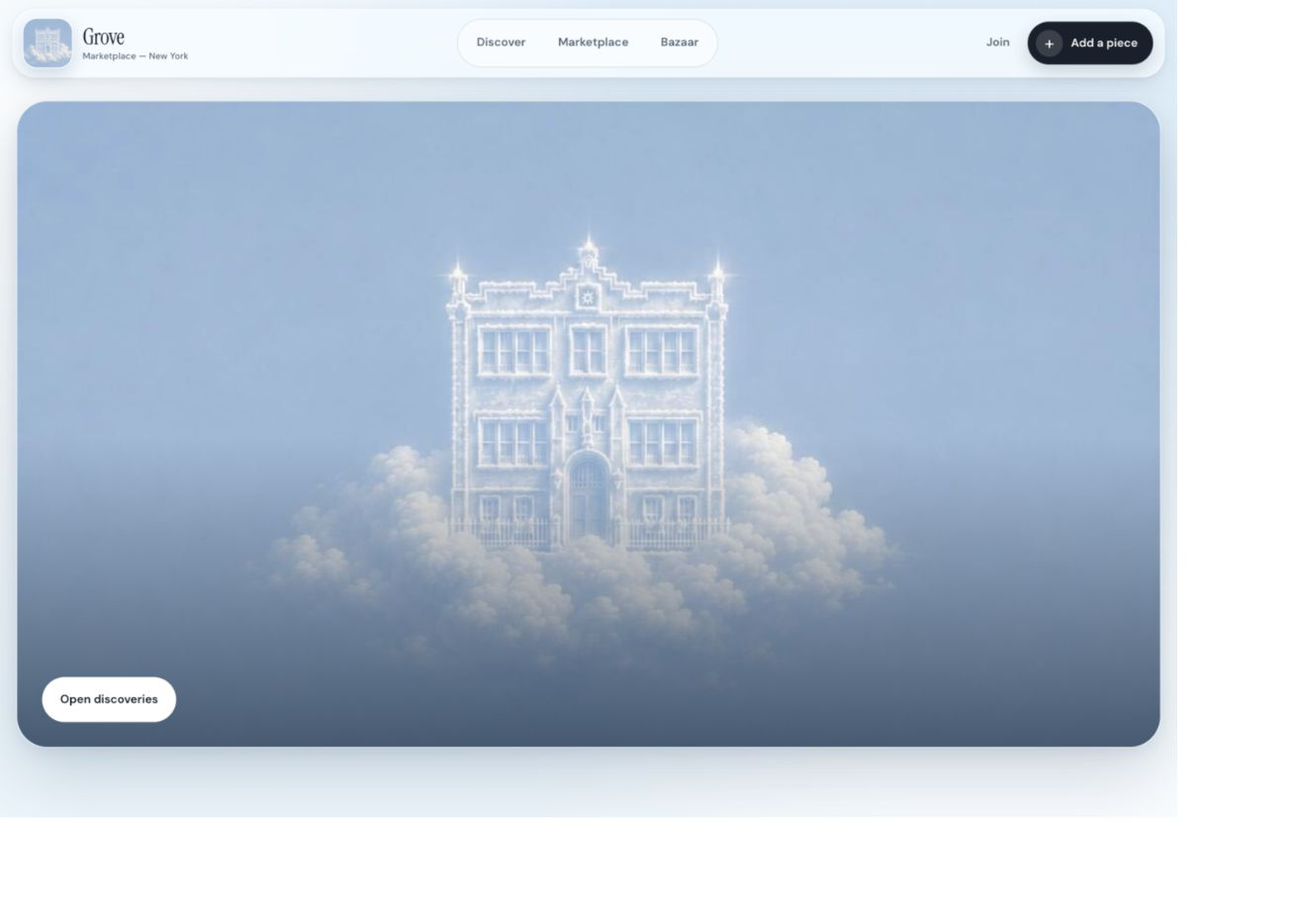
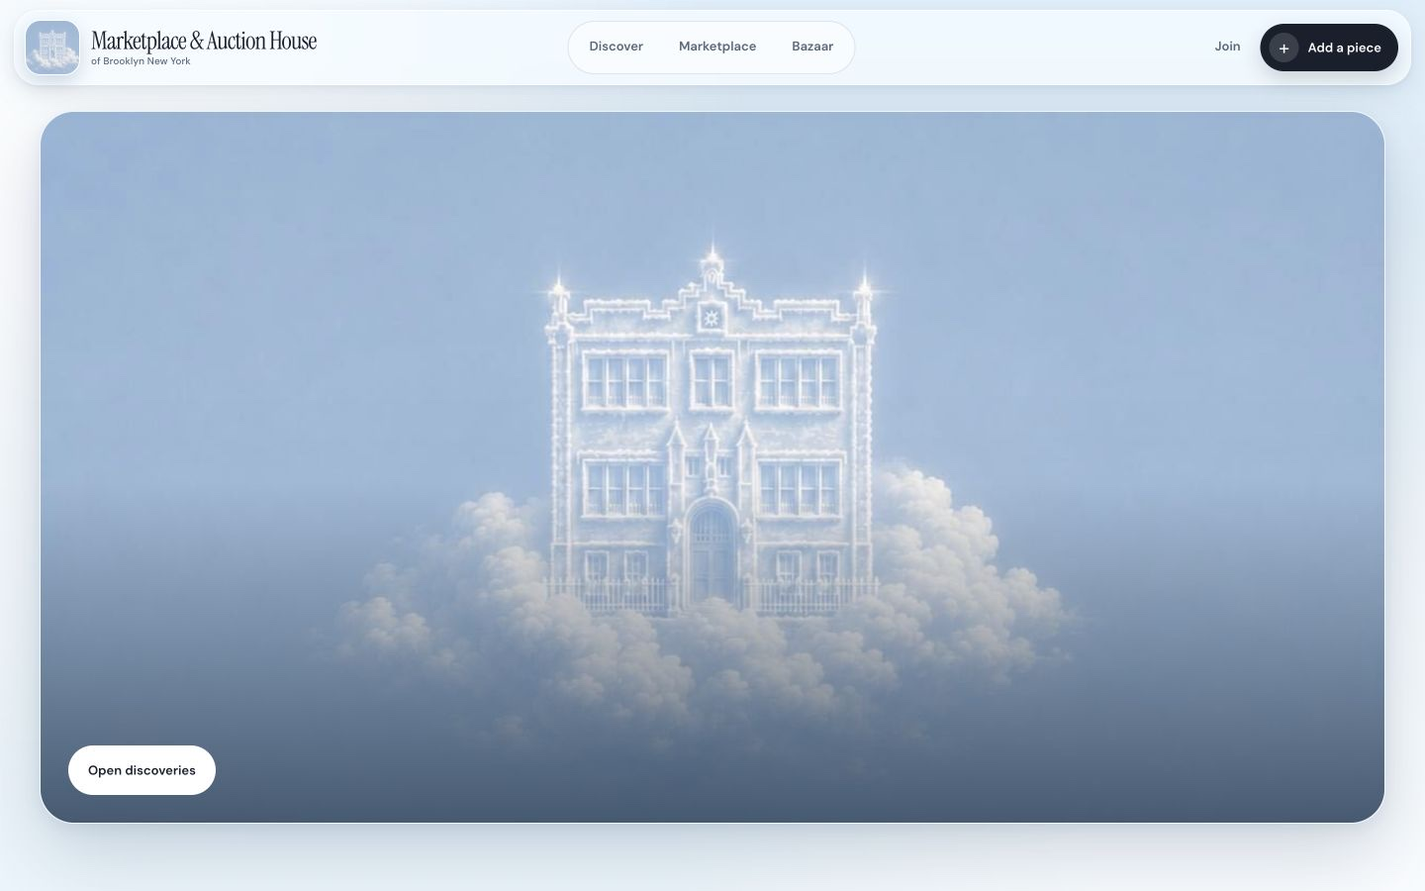
Rename marketplace for Brooklyn auction house (#7)

diff --git a/app.js b/app.js
@@ -11,6 +11,7 @@ import {
 } from "./catalog.js";
 import { track, trackClientErrors } from "./analytics.js";
 
+const BRAND_NAME = "Marketplace & Auction House of Brooklyn New York";
 const app = document.querySelector("#app");
 const collectDialog = document.querySelector("#collect-dialog");
 const collectContent = document.querySelector("#collect-content");
@@ -118,7 +119,7 @@ const home = () => {
   const featuredWorks = [getWork("blue-hour-nassau"), getWork("cloud-protocol-i"), getWork("stairwell-for-nobody")];
   return `
     <div class="page home-page">
-      <section class="hero" aria-label="Grove Marketplace — New York">
+      <section class="hero" aria-label="${BRAND_NAME}">
         <img class="hero__seed" src="public/assets/school-seed.jpg" alt="A glowing ornate school floating in pale-blue clouds">
         <div class="hero__copy">
           <a class="button button--light" href="#discover">Open discoveries</a>
@@ -158,7 +159,7 @@ const discoverPage = () => {
     <div class="page">
       <header class="page-title">
         <h1>Discoveries</h1>
-        <a class="button button--dark" href="#join">Join Grove</a>
+        <a class="button button--dark" href="#join">Join as curator</a>
       </header>
 
       <form class="link-capture" id="link-capture">
@@ -237,7 +238,7 @@ const workPage = (work) => {
         </aside>
       </div>
       <section class="page section related" aria-labelledby="related-title">
-        <div class="section-head"><h2 id="related-title">More from Grove</h2></div>
+        <div class="section-head"><h2 id="related-title">More works</h2></div>
         <div class="work-grid">${related.map(workTile).join("")}</div>
       </section>
     </div>
@@ -248,7 +249,7 @@ const curatorsPage = () => `
   <div class="page">
     <header class="page-title">
       <h1>Curators</h1>
-      <a class="button button--dark" href="#join">Join Grove</a>
+      <a class="button button--dark" href="#join">Join as curator</a>
     </header>
     <section class="curator-grid">
       ${curators.map((curator) => {
@@ -308,7 +309,7 @@ const joinPage = () => `
     <div class="join-image"><img src="public/assets/school-seed.jpg" alt="A glowing school floating in clouds"></div>
     <div class="join-panel">
       <h1>Join.</h1>
-      <div class="social-join" aria-label="Join Grove">
+      <div class="social-join" aria-label="Join as curator">
         <button type="button" data-auth-provider="instagram">
           <span class="social-mark" aria-hidden="true">◎</span>
           <span><strong>Instagram</strong><small>Name · photo · handle</small></span>
@@ -320,7 +321,7 @@ const joinPage = () => `
           <i data-provider-state="x">${providerState("x")}</i>
         </button>
       </div>
-      <p class="join-note">Provider consent only. Grove never asks for your password.</p>
+      <p class="join-note">Provider consent only. We never ask for your password.</p>
       <div class="join-result" id="join-result" aria-live="polite"></div>
     </div>
   </div>
@@ -480,17 +481,17 @@ const render = () => {
   const [root, detail] = route();
   let html;
   let title;
-  if (root === "home") { html = home(); title = "Grove Marketplace — New York"; }
-  else if (root === "discover") { html = discoverPage(); title = "Discoveries · Grove Marketplace — New York"; }
-  else if (root === "market") { html = marketPage(detail || "all"); title = "Works · Grove Marketplace — New York"; }
-  else if (root === "work" && getWork(detail)) { const work = getWork(detail); html = workPage(work); title = `${work.title} · Grove Marketplace — New York`; }
-  else if (root === "exhibition" && getExhibition(detail)) { const exhibition = getExhibition(detail); html = exhibitionPage(exhibition); title = `${exhibition.title} · Grove Marketplace — New York`; }
-  else if (root === "curators") { html = curatorsPage(); title = "Curators · Grove Marketplace — New York"; }
-  else if (root === "curator" && getCurator(detail)) { const curator = getCurator(detail); html = curatorPage(curator); title = `${curator.name} · Grove Marketplace — New York`; }
-  else if (root === "sponsor") { html = sponsorPage(); title = "Add a piece · Grove Marketplace — New York"; }
-  else if (root === "join") { html = joinPage(); title = "Join · Grove Marketplace — New York"; }
-  else if (root === "bazaar") { html = bazaarPage(); title = "Bazaar · Grove Marketplace — New York"; }
-  else { html = notFound(); title = "Not found · Grove Marketplace — New York"; }
+  if (root === "home") { html = home(); title = BRAND_NAME; }
+  else if (root === "discover") { html = discoverPage(); title = `Discoveries · ${BRAND_NAME}`; }
+  else if (root === "market") { html = marketPage(detail || "all"); title = `Works · ${BRAND_NAME}`; }
+  else if (root === "work" && getWork(detail)) { const work = getWork(detail); html = workPage(work); title = `${work.title} · ${BRAND_NAME}`; }
+  else if (root === "exhibition" && getExhibition(detail)) { const exhibition = getExhibition(detail); html = exhibitionPage(exhibition); title = `${exhibition.title} · ${BRAND_NAME}`; }
+  else if (root === "curators") { html = curatorsPage(); title = `Curators · ${BRAND_NAME}`; }
+  else if (root === "curator" && getCurator(detail)) { const curator = getCurator(detail); html = curatorPage(curator); title = `${curator.name} · ${BRAND_NAME}`; }
+  else if (root === "sponsor") { html = sponsorPage(); title = `Add a piece · ${BRAND_NAME}`; }
+  else if (root === "join") { html = joinPage(); title = `Join · ${BRAND_NAME}`; }
+  else if (root === "bazaar") { html = bazaarPage(); title = `Bazaar · ${BRAND_NAME}`; }
+  else { html = notFound(); title = `Not found · ${BRAND_NAME}`; }
 
   app.innerHTML = html;
   document.title = title;
@@ -602,9 +603,9 @@ document.addEventListener("submit", (event) => {
 });
 
 const downloadCalendar = () => {
-  const file = ["BEGIN:VCALENDAR", "VERSION:2.0", "BEGIN:VEVENT", "DTSTART:20260912T160000Z", "DTEND:20260912T230000Z", "SUMMARY:Grove Marketplace — New York · Assembly of Light", "LOCATION:29 Nassau Avenue\\, Brooklyn\\, New York", "END:VEVENT", "END:VCALENDAR"].join("\r\n");
+  const file = ["BEGIN:VCALENDAR", "VERSION:2.0", "BEGIN:VEVENT", "DTSTART:20260912T160000Z", "DTEND:20260912T230000Z", `SUMMARY:${BRAND_NAME} · Assembly of Light`, "LOCATION:29 Nassau Avenue\\, Brooklyn\\, New York", "END:VEVENT", "END:VCALENDAR"].join("\r\n");
   const url = URL.createObjectURL(new Blob([file], { type: "text/calendar" }));
-  const link = Object.assign(document.createElement("a"), { href: url, download: "grove-bazaar.ics" });
+  const link = Object.assign(document.createElement("a"), { href: url, download: "brooklyn-auction-house-bazaar.ics" });
   link.click();
   URL.revokeObjectURL(url);
   showToast("Calendar ready");

diff --git a/index.html b/index.html
@@ -4,19 +4,19 @@
   <meta charset="utf-8">
   <meta name="viewport" content="width=device-width, initial-scale=1, viewport-fit=cover">
   <meta name="theme-color" content="#dceefa">
-  <meta name="description" content="Grove Marketplace — New York. Curator-led physical and digital art.">
+  <meta name="description" content="Marketplace &amp; Auction House of Brooklyn New York. Curator-led physical and digital art.">
   <meta name="robots" content="index,follow,max-image-preview:large">
-  <meta property="og:title" content="Grove Marketplace — New York">
-  <meta property="og:description" content="Curator-led physical and digital art in New York.">
+  <meta property="og:title" content="Marketplace &amp; Auction House of Brooklyn New York">
+  <meta property="og:description" content="Curator-led physical and digital art in Brooklyn.">
   <meta property="og:type" content="website">
   <meta property="og:url" content="https://the-school-omega.vercel.app/">
   <meta property="og:image" content="https://the-school-omega.vercel.app/public/assets/school-seed.jpg">
   <meta property="og:image:alt" content="A glowing ornate school floating in pale-blue clouds">
   <meta name="twitter:card" content="summary_large_image">
-  <meta name="twitter:title" content="Grove Marketplace — New York">
-  <meta name="twitter:description" content="Curator-led physical and digital art in New York.">
+  <meta name="twitter:title" content="Marketplace &amp; Auction House of Brooklyn New York">
+  <meta name="twitter:description" content="Curator-led physical and digital art in Brooklyn.">
   <meta name="twitter:image" content="https://the-school-omega.vercel.app/public/assets/school-seed.jpg">
-  <title>Grove Marketplace — New York</title>
+  <title>Marketplace &amp; Auction House of Brooklyn New York</title>
   <link rel="canonical" href="https://the-school-omega.vercel.app/">
   <link rel="icon" href="public/assets/school-mark.jpg" type="image/jpeg">
   <link rel="apple-touch-icon" href="public/assets/school-mark.jpg">
@@ -30,9 +30,9 @@
   <a class="skip-link" href="#app">Skip to content</a>
 
   <header class="topbar">
-    <a class="brand" href="#home" aria-label="Grove Marketplace — New York, home">
+    <a class="brand" href="#home" aria-label="Marketplace &amp; Auction House of Brooklyn New York, home">
       <img src="public/assets/school-mark.jpg" alt="" width="56" height="56">
-      <span><strong>Grove</strong><small>Marketplace — New York</small></span>
+      <span><strong>Marketplace &amp; Auction House</strong><small>of Brooklyn New York</small></span>
     </a>
 
     <nav class="main-nav" aria-label="Primary navigation">
@@ -48,13 +48,13 @@
   </header>
 
   <main id="app" tabindex="-1">
-    <noscript><p class="no-script">JavaScript is required to browse Grove Marketplace.</p></noscript>
+    <noscript><p class="no-script">JavaScript is required to browse the marketplace.</p></noscript>
   </main>
 
   <footer class="footer">
-    <a class="brand brand--footer" href="#home" aria-label="Grove Marketplace — New York, home">
+    <a class="brand brand--footer" href="#home" aria-label="Marketplace &amp; Auction House of Brooklyn New York, home">
       <img src="public/assets/school-mark.jpg" alt="" width="48" height="48">
-      <span><strong>Grove</strong><small>Marketplace — New York</small></span>
+      <span><strong>Marketplace &amp; Auction House</strong><small>of Brooklyn New York</small></span>
     </a>
     <nav aria-label="Footer navigation">
       <a href="#discover">Discover</a>
@@ -62,7 +62,7 @@
       <a href="#curators">Curators</a>
       <a href="#sponsor">Add a piece</a>
     </nav>
-    <span>29 Nassau · New York</span>
+    <span>29 Nassau · Brooklyn</span>
   </footer>
 
   <dialog class="collect-dialog" id="collect-dialog" aria-labelledby="collect-title">

diff --git a/api/health.js b/api/health.js
@@ -6,12 +6,12 @@ export const GET = async (request) => {
   try {
     const { supabase, headers } = createSupabaseRequestClient(request);
     const { error } = await supabase.from("works").select("id").limit(1);
-    if (error) return problem(503, "database_unreachable", "The Grove database is unavailable.", headers);
+    if (error) return problem(503, "database_unreachable", "The marketplace database is unavailable.", headers);
 
     const configuration = publicConfiguration();
     return json({
       status: "ok",
-      service: "grove-marketplace-new-york",
+      service: "marketplace-auction-house-brooklyn-new-york",
       runtime: {
         environment: process.env.VERCEL_ENV || "local",
         region: process.env.VERCEL_REGION || "local"
@@ -23,8 +23,8 @@ export const GET = async (request) => {
     }, { headers: { ...Object.fromEntries(headers), "Cache-Control": "no-store" } });
   } catch (error) {
     if (error instanceof ConfigurationError) {
-      return problem(503, "backend_not_configured", "The Grove backend is not configured.");
+      return problem(503, "backend_not_configured", "The marketplace backend is not configured.");
     }
-    return problem(503, "service_unavailable", "Grove is unavailable.");
+    return problem(503, "service_unavailable", "The marketplace is unavailable.");
   }
 };

diff --git a/lib/server/supabase.js b/lib/server/supabase.js
@@ -62,7 +62,7 @@ export const getAuthenticatedCurator = async (client) => {
 export const createSupabaseAdminClient = () => {
   const config = getRuntimeConfig();
   if (!config.metricsConfigured) {
-    throw new ConfigurationError("Grove metrics are not configured.", ["SUPABASE_SECRET_KEY", "GROVE_METRICS_ENABLED=true"]);
+    throw new ConfigurationError("Marketplace metrics are not configured.", ["SUPABASE_SECRET_KEY", "GROVE_METRICS_ENABLED=true"]);
   }
 
   return createClient(config.supabaseUrl, config.supabaseSecretKey, {

diff --git a/analytics.js b/analytics.js
@@ -26,10 +26,10 @@ let configurationRequest;
 
 const sessionId = () => {
   try {
-    const current = sessionStorage.getItem("grove_session_id");
+    const current = sessionStorage.getItem("brooklyn_marketplace_session_id");
     if (current) return current;
     const created = crypto.randomUUID();
-    sessionStorage.setItem("grove_session_id", created);
+    sessionStorage.setItem("brooklyn_marketplace_session_id", created);
     return created;
   } catch {
     return crypto.randomUUID();

diff --git a/styles.css b/styles.css
@@ -162,10 +162,12 @@ h2 {
 }
 
 .brand strong {
+  max-width: 300px;
   font-family: var(--serif);
   font-size: 25px;
   font-weight: 400;
   letter-spacing: -0.03em;
+  line-height: 0.92;
 }
 
 .brand small {
@@ -1680,11 +1682,13 @@ h2 {
   }
 
   .brand strong {
-    font-size: 21px;
+    max-width: 180px;
+    font-size: 16px;
+    line-height: 0.9;
   }
 
   .brand small {
-    font-size: 8px;
+    font-size: 7px;
   }
 
   .join-link {

diff --git a/lib/server/config.js b/lib/server/config.js
@@ -61,7 +61,7 @@ export const requireBackendConfig = () => {
   const missing = [];
   if (!config.supabaseUrl) missing.push("SUPABASE_URL");
   if (!config.supabaseKey) missing.push("SUPABASE_PUBLISHABLE_KEY");
-  throw new ConfigurationError("The Grove backend is not configured.", missing);
+  throw new ConfigurationError("The marketplace backend is not configured.", missing);
 };
 
 export const getProvider = (requestedProvider) => {

diff --git a/DESIGN.md b/DESIGN.md
@@ -1,12 +1,12 @@
-# Grove Marketplace — New York · design notes
+# Marketplace & Auction House of Brooklyn New York · design notes
 
 ## Identity
 
-The user-supplied floating school is Grove’s primary mark, not mood-board material. The full square image anchors the home and join pages; a centered crop serves as the compact logo. The visible identity is **Grove Marketplace — New York**.
+The user-supplied floating school is the primary mark, not mood-board material. The full square image anchors the home and join pages; a centered crop serves as the compact logo. The visible identity is **Marketplace & Auction House of Brooklyn New York**.
 
 ## Visual thesis
 
-Grove is a celestial curator desk:
+The experience is a celestial curator desk:
 
 - pale-blue cloud light and icy white highlights;
 - art at the largest practical scale;
@@ -15,7 +15,7 @@ Grove is a celestial curator desk:
 - serif display type with quiet sans-serif utility text;
 - very little copy.
 
-The former Foundation marketplace influences the confident artwork scale, rounded pop-out objects, editorial calm, and clear acquisition focus. Grove combines that sensibility with its own pixelated school and luminous-blue atmosphere rather than reproducing Foundation’s branding or layouts.
+The former Foundation marketplace influences the confident artwork scale, rounded pop-out objects, editorial calm, and clear acquisition focus. This experience combines that sensibility with its own pixelated school and luminous-blue atmosphere rather than reproducing Foundation’s branding or layouts.
 
 ## Product hierarchy
 
@@ -23,7 +23,7 @@ The former Foundation marketplace influences the confident artwork scale, rounde
 2. **Add a piece** — a discovery or public link becomes an unlisted draft.
 3. **Join** — a curator authorizes Instagram or X and imports only granted name/photo/handle data.
 4. **Marketplace** — collectors explore physical, digital / NFT, and paired work.
-5. **Bazaar** — Grove coordinates a monthly physical gathering.
+5. **Bazaar** — the marketplace coordinates a monthly physical gathering.
 
 The interface exposes only the state needed for the current decision. Detail, edition, network, and fulfillment metadata stay collapsed or on the work page.
 
@@ -42,7 +42,7 @@ Controls state exactly what happens. Missing credentials and contracts are repre
 
 ## Responsive behavior
 
-Desktop uses three-column art grids and paired detail surfaces. Phone layouts collapse to one column, retain the Grove name, keep curator actions prominent, and move the three primary destinations into a thumb-reachable floating navigation. Visible first-viewport targets are at least 44px, horizontal overflow is suppressed and tested, and motion respects `prefers-reduced-motion`.
+Desktop uses three-column art grids and paired detail surfaces. Phone layouts collapse to one column, retain the full identity in a compact two-line lockup, keep curator actions prominent, and move the three primary destinations into a thumb-reachable floating navigation. Visible first-viewport targets are at least 44px, horizontal overflow is suppressed and tested, and motion respects `prefers-reduced-motion`.
 
 ## Assets
 

diff --git a/README.md b/README.md
@@ -1,4 +1,4 @@
-# Grove Marketplace — New York
+# Marketplace & Auction House of Brooklyn New York
 
 [![CI](https://github.com/Greenpoint-Compute-Cooperative/school-website/actions/workflows/ci.yml/badge.svg)](https://github.com/Greenpoint-Compute-Cooperative/school-website/actions/workflows/ci.yml)
 [![Production health](https://github.com/Greenpoint-Compute-Cooperative/school-website/actions/workflows/uptime.yml/badge.svg)](https://github.com/Greenpoint-Compute-Cooperative/school-website/actions/workflows/uptime.yml)
@@ -8,11 +8,11 @@ A curator-led marketplace for physical art in the School and born-digital work. 
 
 **Live:** [the-school-omega.vercel.app](https://the-school-omega.vercel.app)
 
-![Grove Marketplace — New York home page](docs/screenshot-desktop.jpg)
+![Marketplace & Auction House of Brooklyn New York home page](docs/screenshot-desktop.jpg)
 
 ![Born-digital work and acquisition preview](docs/screenshot-work.jpg)
 
-<img src="docs/screenshot-phone.jpg" alt="Grove Marketplace — New York on a phone" width="300">
+<img src="docs/screenshot-phone.jpg" alt="Marketplace & Auction House of Brooklyn New York on a phone" width="300">
 
 ## Architecture
 
@@ -24,7 +24,7 @@ A curator-led marketplace for physical art in the School and born-digital work. 
 
 See [`docs/ARCHITECTURE.md`](docs/ARCHITECTURE.md) for trust boundaries and [`docs/ENVIRONMENTS.md`](docs/ENVIRONMENTS.md) for production/preview isolation.
 
-The repository uses dedicated `Grove Marketplace New York` production and preview Supabase projects in US East plus the `dmarzzzs-projects/the-school` Vercel project. Database migrations are applied independently, and Preview/Development receive synthetic data only. Instagram and X remain visibly disabled until their dedicated provider apps, policy URLs, and credentials are approved.
+The repository uses dedicated production and preview Supabase projects in US East plus the `dmarzzzs-projects/the-school` Vercel project. Database migrations are applied independently, and Preview/Development receive synthetic data only. Instagram and X remain visibly disabled until their dedicated provider apps, policy URLs, and credentials are approved.
 
 ## Run the interface
 
@@ -97,4 +97,4 @@ Start with [`CONTRIBUTING.md`](CONTRIBUTING.md). Pull requests run deterministic
 
 The code is available under the [MIT License](LICENSE). Tagged releases rebuild the app, rerun CI, and publish a checksummed static artifact.
 
-The supplied floating-school image is Grove’s primary mark. Catalog records are fictional prototype content. Wallet, contract, card, inventory, media retrieval, and RSVP integrations are not connected.
+The supplied floating-school image is the marketplace’s primary mark. Catalog records are fictional prototype content. Wallet, contract, card, inventory, media retrieval, and RSVP integrations are not connected.

diff --git a/docs/OAUTH_SETUP.md b/docs/OAUTH_SETUP.md
@@ -1,11 +1,11 @@
 # Social access setup
 
-Grove Marketplace — New York accepts curator access only through Instagram or X. The site never accepts an email/password form, social password, or scraped account data.
+Marketplace & Auction House of Brooklyn New York accepts curator access only through Instagram or X. The site never accepts an email/password form, social password, or scraped account data.
 
 ## Shared Supabase setup
 
-1. Apply the Grove migration and set the Supabase Site URL to the production Grove origin.
-2. Allow the exact app callback for production and each reviewed preview: `https://<grove-origin>/api/auth/callback`.
+1. Apply the marketplace migration and set the Supabase Site URL to the production origin.
+2. Allow the exact app callback for production and each reviewed preview: `https://<marketplace-origin>/api/auth/callback`.
 3. Each provider app sends its callback to Supabase: `https://<project-ref>.supabase.co/auth/v1/callback`.
 4. Use PKCE, HTTPS, least-privilege scopes, and provider consent. The Vercel app needs only `SUPABASE_URL` and `SUPABASE_PUBLISHABLE_KEY`; provider secrets stay in Supabase.
 5. Keep `GROVE_*_OAUTH_ENABLED=false` until staging proves consent, cancellation, callback, refresh, sign-out, revocation, and deletion.
@@ -36,7 +36,7 @@ Grove Marketplace — New York accepts curator access only through Instagram or 
 
 It does not copy email, phone, credentials, social graph, messages, tokens, or media into the public curator record. No scraping or ambient chat monitoring is present.
 
-Before either flag is enabled, publish a privacy policy and deletion route, choose a documented retention period for private discoveries, and implement an authenticated deletion process that removes the Supabase Auth user and cascaded Grove records. Recommended launch default: purge archived discovery drafts after 90 days; retain published sale/provenance records only for the legally required period and describe that exception clearly. Verify Vercel/Supabase log retention separately.
+Before either flag is enabled, publish a privacy policy and deletion route, choose a documented retention period for private discoveries, and implement an authenticated deletion process that removes the Supabase Auth user and cascaded marketplace records. Recommended launch default: purge archived discovery drafts after 90 days; retain published sale/provenance records only for the legally required period and describe that exception clearly. Verify Vercel/Supabase log retention separately.
 
 ## Verification
 

diff --git a/LAUNCH.md b/LAUNCH.md
@@ -1,8 +1,8 @@
-# Grove Marketplace — New York · launch plan
+# Marketplace & Auction House of Brooklyn New York · launch plan
 
 ## Position
 
-Grove Marketplace — New York is the curator-led market for physical work at 29 Nassau Avenue and born-digital work. A named curator sponsors every artist and piece. The monthly auditorium bazaar turns the catalog into a recurring in-person program.
+Marketplace & Auction House of Brooklyn New York is the curator-led market for physical work at 29 Nassau Avenue and born-digital work. A named curator sponsors every artist and piece. The monthly auditorium bazaar turns the catalog into a recurring in-person program.
 
 NFT acquisition is not deferred: verified existing tokens, new editions, and paired physical + NFT works belong in the first production launch. Crypto is the primary rail; hosted card checkout remains available.
 
@@ -88,7 +88,7 @@ Hard launch gates:
 
 ## Future: Instagram chat intake
 
-A later, non-intrusive Instagram chat intake may let a curator send a link in a normal conversation and receive an unlisted Grove draft. This is a convenience layer over the curator desk, not a surveillance or scraping system.
+A later, non-intrusive Instagram chat intake may let a curator send a link in a normal conversation and receive an unlisted marketplace draft. This is a convenience layer over the curator desk, not a surveillance or scraping system.
 
 Required constraints:
 
@@ -126,7 +126,7 @@ NFTs already exist in launch scope. Phase two deepens them:
 
 ## Prototype map
 
-- `#home` — Grove Marketplace — New York identity, seed image, and one discovery action.
+- `#home` — Marketplace & Auction House of Brooklyn New York identity, seed image, and one discovery action.
 - `#discover` — discovery inbox, saved/sponsored states, and link-to-draft intake.
 - `#sponsor` / `#join` — curator draft and configured/unconfigured Instagram/X consent boundary.
 - `#market` / `#work/:slug` — mixed catalog and honest crypto/card preview.

diff --git a/docs/ENVIRONMENTS.md b/docs/ENVIRONMENTS.md
@@ -1,11 +1,11 @@
 # Environments
 
-Grove separates public production data from pull-request and local-development writes. Project references are identifiers, not credentials; keys remain in Supabase, Vercel, GitHub Actions secrets, or the operator password manager.
+The marketplace separates public production data from pull-request and local-development writes. Project references are identifiers, not credentials; keys remain in Supabase, Vercel, GitHub Actions secrets, or the operator password manager.
 
 | Surface | Vercel scope | Supabase project | Data | Metrics | Integrations |
 |---|---|---|---|---|---|
-| Production | Production | `Grove Marketplace New York` · `xscysuvqragqwhxuhivv` · US East | Real, approved records only | Enabled; 180-day retention | Fail closed until approved |
-| Pull requests | Preview | `Grove Marketplace New York Preview` · `nlvxepkzrctbjafcgffk` · US East | Synthetic records only | Disabled | Disabled |
+| Production | Production | `xscysuvqragqwhxuhivv` · US East | Real, approved records only | Enabled; 180-day retention | Fail closed until approved |
+| Pull requests | Preview | `nlvxepkzrctbjafcgffk` · US East | Synthetic records only | Disabled | Disabled |
 | Local API work | Development | Same `nlvxepkzrctbjafcgffk` preview project | Synthetic records only | Disabled | Disabled |
 | Static local UI | None | None | Bundled prototype catalog | Disabled | Disabled |
 
